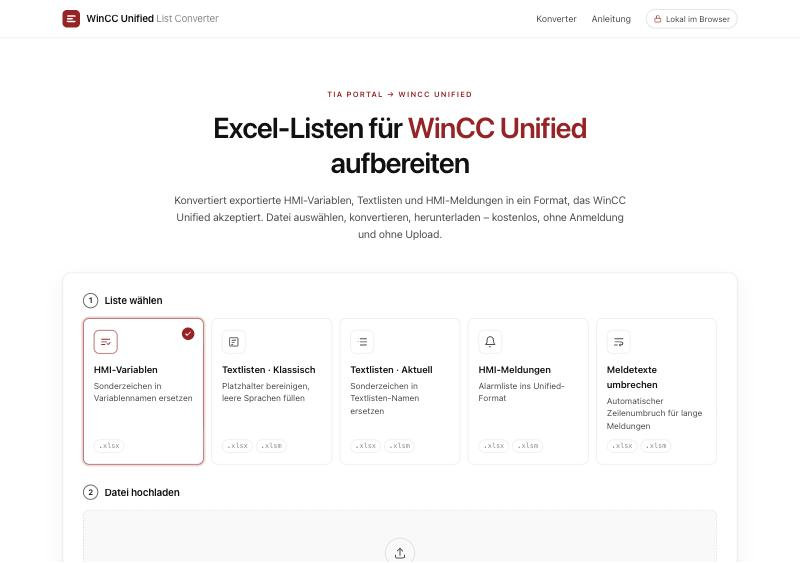
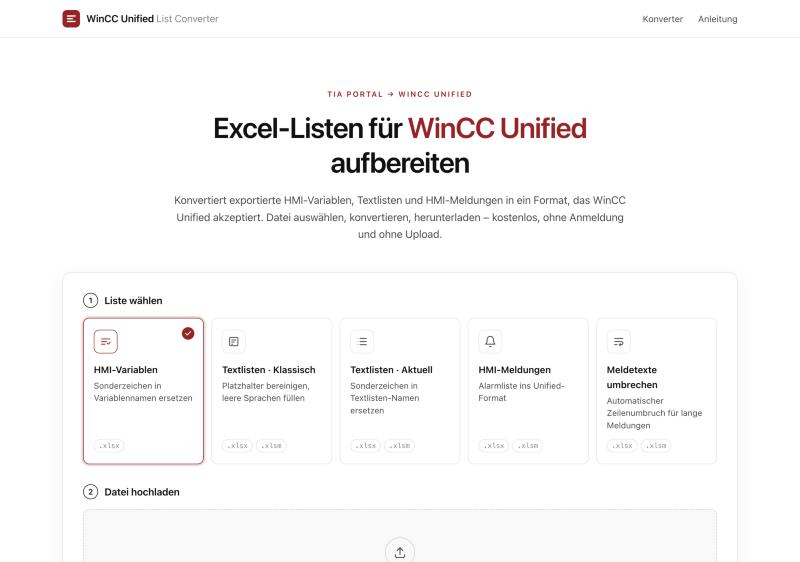
Badge 'Lokal im Browser' aus der Kopfzeile entfernt

diff --git a/src/styles.css b/src/styles.css
@@ -66,8 +66,6 @@ a { color: var(--accent-text); text-underline-offset: 3px; }
 .topnav { display: flex; align-items: center; gap: 24px; font-size: 14.5px; }
 .topnav a { color: var(--text-2); text-decoration: none; }
 .topnav a:hover { color: var(--text); }
-.local-badge { display: inline-flex; align-items: center; gap: 6px; padding: 4px 11px; border-radius: 999px; border: 1px solid var(--border-strong); color: var(--text-2); font-size: 13px; }
-.local-badge svg { width: 14px; height: 14px; color: var(--accent-text); }
 
 /* Hero */
 .hero-band { padding: 80px 0 48px; }

diff --git a/index.html b/index.html
@@ -20,10 +20,6 @@
         <nav class="topnav">
           <a href="#converter">Konverter</a>
           <a href="#anleitung">Anleitung</a>
-          <span class="local-badge" title="Alle Dateien werden ausschließlich in deinem Browser verarbeitet.">
-            <svg viewBox="0 0 24 24" aria-hidden="true"><rect x="4" y="11" width="16" height="10" rx="2" /><path d="M8 11V7a4 4 0 0 1 8 0v4" /></svg>
-            Lokal im Browser
-          </span>
         </nav>
       </div>
     </header>
